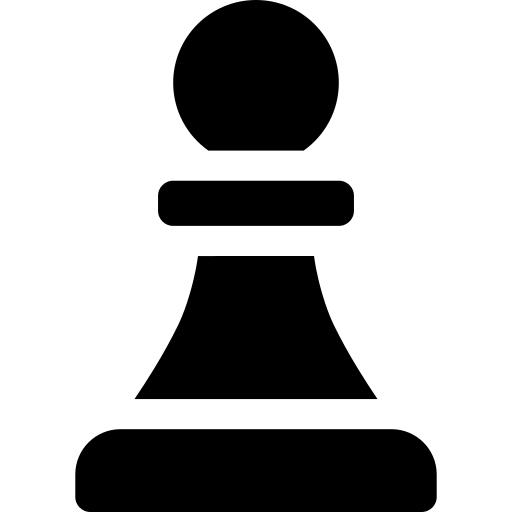
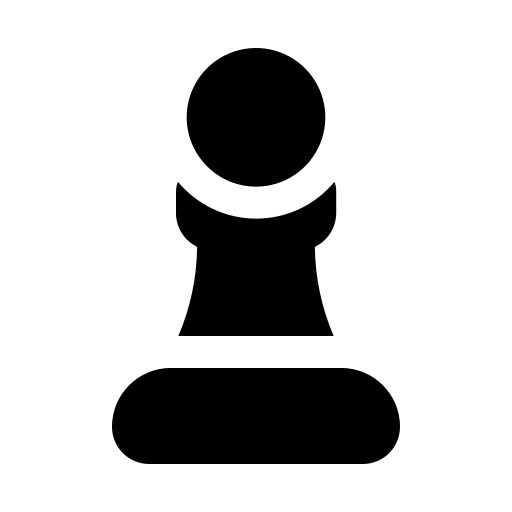
feat(chess): position all black and white pieces on the board

diff --git a/lib/chess_board.dart b/lib/chess_board.dart
@@ -1,4 +1,5 @@
 import 'package:chess/helper/helper_function.dart';
+import 'package:chess/widgets/pieces.dart';
 import 'package:chess/widgets/square_box.dart';
 import 'package:flutter/material.dart';
 
@@ -10,6 +11,127 @@ class ChessBoard extends StatefulWidget {
 }
 
 class _ChessBoardState extends State<ChessBoard> {
+  late List<List<ChessPiece?>> board;
+
+  @override
+  void initState() {
+    super.initState();
+    initialise();
+  }
+
+  void initialise() {
+    List<List<ChessPiece?>> newBoard = List.generate(
+      8,
+      (index) => List.filled(8, null),
+    );
+
+    // Place pawns
+    for (int i = 0; i < 8; i++) {
+      newBoard[1][i] = ChessPiece(
+        type: PiecesType.pawn,
+        isWhite: false,
+        imagePath: 'assets/pawn.png',
+      );
+      newBoard[6][i] = ChessPiece(
+        type: PiecesType.pawn,
+        isWhite: true,
+        imagePath: 'assets/pawn.png',
+      );
+    }
+
+    // rooks
+    newBoard[0][0] = ChessPiece(
+      type: PiecesType.rook,
+      isWhite: false,
+      imagePath: 'assets/rook.png',
+    );
+    newBoard[0][7] = ChessPiece(
+      type: PiecesType.rook,
+      isWhite: false,
+      imagePath: 'assets/rook.png',
+    );
+    newBoard[7][0] = ChessPiece(
+      type: PiecesType.rook,
+      isWhite: true,
+      imagePath: 'assets/rook.png',
+    );
+    newBoard[7][7] = ChessPiece(
+      type: PiecesType.rook,
+      isWhite: true,
+      imagePath: 'assets/rook.png',
+    );
+
+    // knights
+    newBoard[0][1] = ChessPiece(
+      type: PiecesType.knight,
+      isWhite: false,
+      imagePath: 'assets/knight.png',
+    );
+    newBoard[0][6] = ChessPiece(
+      type: PiecesType.knight,
+      isWhite: false,
+      imagePath: 'assets/knight.png',
+    );
+    newBoard[7][1] = ChessPiece(
+      type: PiecesType.knight,
+      isWhite: true,
+      imagePath: 'assets/knight.png',
+    );
+    newBoard[7][6] = ChessPiece(
+      type: PiecesType.knight,
+      isWhite: true,
+      imagePath: 'assets/knight.png',
+    );
+
+    // bishops
+    newBoard[0][2] = ChessPiece(
+      type: PiecesType.bishop,
+      isWhite: false,
+      imagePath: 'assets/bishop.png',
+    );
+    newBoard[0][5] = ChessPiece(
+      type: PiecesType.bishop,
+      isWhite: false,
+      imagePath: 'assets/bishop.png',
+    );
+    newBoard[7][2] = ChessPiece(
+      type: PiecesType.bishop,
+      isWhite: true,
+      imagePath: 'assets/bishop.png',
+    );
+    newBoard[7][5] = ChessPiece(
+      type: PiecesType.bishop,
+      isWhite: true,
+      imagePath: 'assets/bishop.png',
+    );
+
+    // queens
+    newBoard[0][3] = ChessPiece(
+      type: PiecesType.queen,
+      isWhite: false,
+      imagePath: 'assets/queen.png',
+    );
+    newBoard[7][3] = ChessPiece(
+      type: PiecesType.queen,
+      isWhite: true,
+      imagePath: 'assets/queen.png',
+    );
+
+    // kings
+    newBoard[0][4] = ChessPiece(
+      type: PiecesType.king,
+      isWhite: false,
+      imagePath: 'assets/king.png',
+    );
+    newBoard[7][4] = ChessPiece(
+      type: PiecesType.king,
+      isWhite: true,
+      imagePath: 'assets/king.png',
+    );
+
+    board = newBoard;
+  }
+
   @override
   Widget build(BuildContext context) {
     return Scaffold(
@@ -20,7 +142,9 @@ class _ChessBoardState extends State<ChessBoard> {
           crossAxisCount: 8,
         ),
         itemBuilder: (context, index) {
-          return SquareBox(isGreen: isGreen(index));
+          int row = index ~/ 8;
+          int col = index % 8;
+          return SquareBox(isWhite: isWhite(index), piece: board[row][col]);
         },
       ),
     );

diff --git a/lib/widgets/square_box.dart b/lib/widgets/square_box.dart
@@ -1,11 +1,24 @@
+import 'package:chess/widgets/pieces.dart';
 import 'package:flutter/material.dart';
 
 class SquareBox extends StatelessWidget {
-  final bool isGreen;
-  const SquareBox({super.key, required this.isGreen});
+  final bool isWhite;
+  final ChessPiece? piece;
+  const SquareBox({super.key, required this.isWhite, required this.piece});
 
   @override
   Widget build(BuildContext context) {
-    return Container(color: isGreen ? Colors.green.shade50 : Colors.green);
+    return Container(
+      color: isWhite ? Colors.indigo[100] : Colors.indigo[500],
+      child: piece != null
+          ? FittedBox(
+              fit: BoxFit.contain,
+              child: Image.asset(
+                piece!.imagePath,
+                color: piece!.isWhite ? Colors.white : Colors.black,
+              ),
+            )
+          : null,
+    );
   }
 }

diff --git a/lib/widgets/pieces.dart b/lib/widgets/pieces.dart
@@ -1,0 +1,13 @@
+enum PiecesType { pawn, rook, knight, bishop, queen, king }
+
+class ChessPiece {
+  final PiecesType type;
+  final bool isWhite;
+  final String imagePath;
+
+  ChessPiece({
+    required this.type,
+    required this.isWhite,
+    required this.imagePath,
+  });
+}

diff --git a/lib/helper/helper_function.dart b/lib/helper/helper_function.dart
@@ -1,4 +1,4 @@
-bool isGreen(int index) {
+bool isWhite(int index) {
   int x = index % 8;
   int y = index ~/ 8;
   bool isGreen = (x + y) % 2 == 0;
